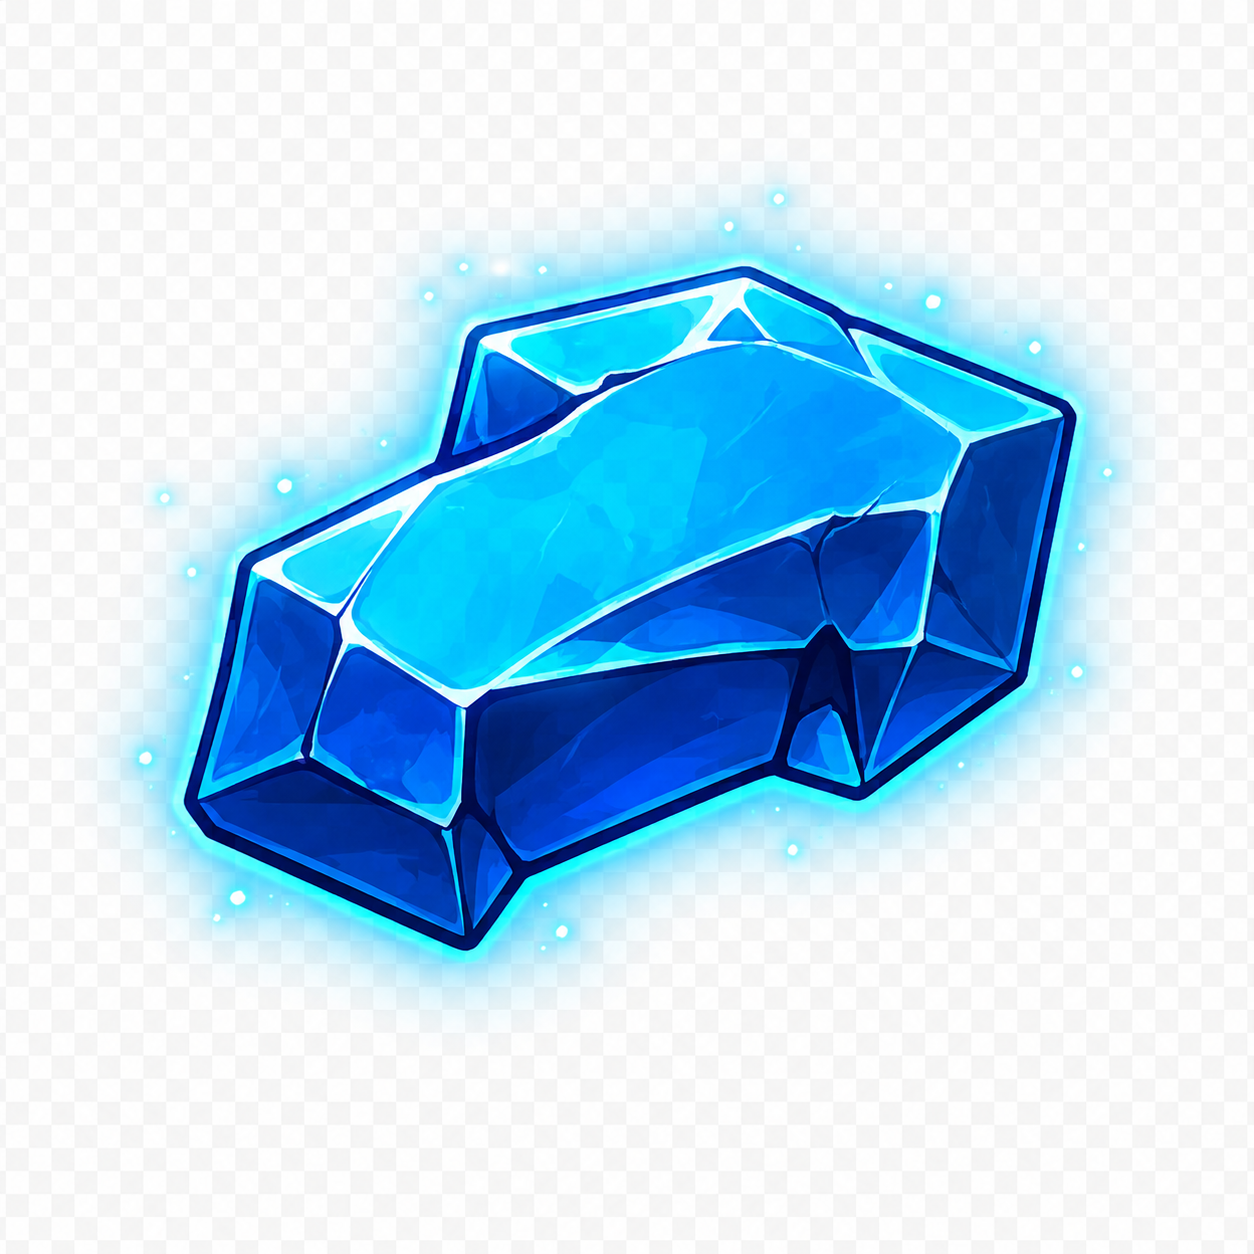
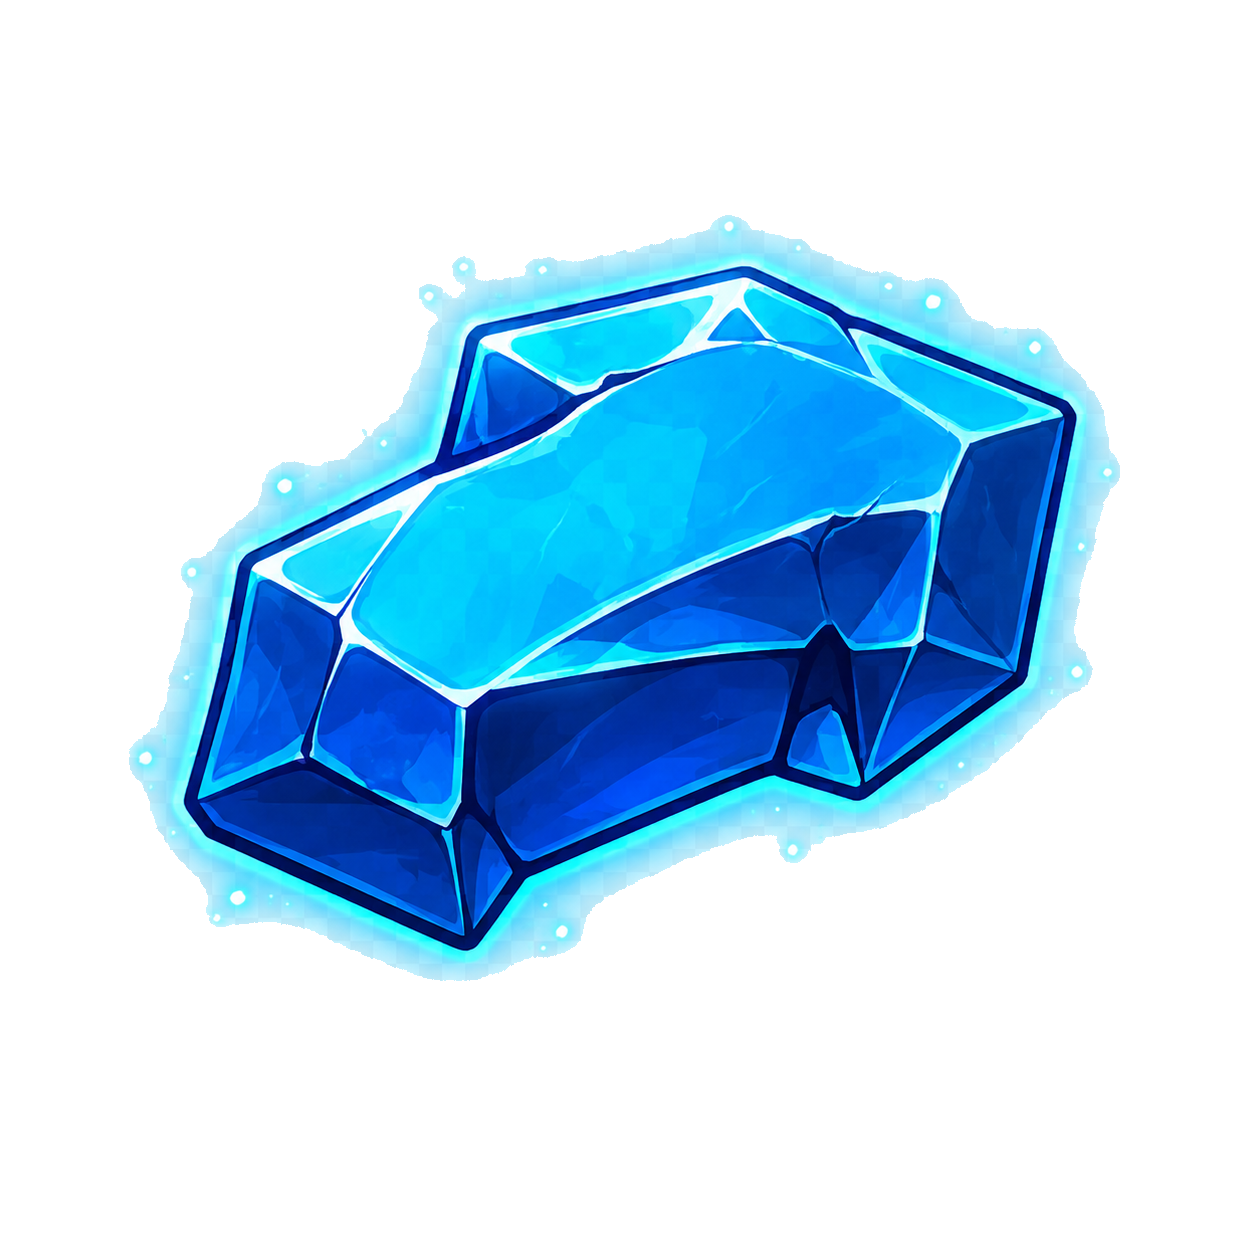
add

Changed region(s): [[0.0622, 0.1244, 0.933, 0.8086]]

diff --git a/assets/css/style.css b/assets/css/style.css
@@ -1412,21 +1412,19 @@ p { line-height: 1.5; }
 }
 
 .fragment-reward-box {
-  width: min(100%, 420px);
-  margin: 12px auto 6px !important;
-  padding: 24px 24px 22px !important;
-  min-height: 190px;
+  width: min(100%, 360px);
+  margin: 10px auto 6px !important;
+  padding: 12px 10px 6px !important;
+  min-height: auto;
   display: flex !important;
   flex-direction: column !important;
   align-items: center !important;
   justify-content: center !important;
   gap: 10px;
   background: transparent !important;
-  background-image: var(--parchment-popup-image) !important;
-  background-repeat: no-repeat !important;
-  background-position: center center !important;
-  background-size: 100% 100% !important;
-  box-shadow: 0 14px 32px rgba(0,0,0,.14) !important;
+  background-image: none !important;
+  box-shadow: none !important;
+  border: 0 !important;
 }
 
 .fragment-reward-box > div {
@@ -1434,7 +1432,7 @@ p { line-height: 1.5; }
   gap: 4px;
   justify-items: center;
   text-align: center;
-  max-width: 280px;
+  max-width: 300px;
 }
 
 .fragment-mini-image {
@@ -1450,7 +1448,7 @@ p { line-height: 1.5; }
 }
 
 .finale-box {
-  min-height: 165px;
+  min-height: auto;
 }
 
 @media (max-width: 520px) {
@@ -1467,12 +1465,92 @@ p { line-height: 1.5; }
   }
 
   .fragment-reward-box {
-    min-height: 175px;
-    padding: 22px 16px 18px !important;
+    min-height: auto;
+    padding: 10px 8px 6px !important;
   }
 
   .fragment-mini-image {
     width: 72px;
     height: 72px;
   }
+}
+
+
+/* ===== v8 Popup-Feinschliff ===== */
+.game-modal-card,
+.level-popup-card,
+.quiz-final-result,
+.quiz-intro,
+.quiz-result,
+.quiz-game {
+  text-align: center !important;
+}
+
+.game-modal-card h2,
+.game-modal-card p,
+.level-popup-card h2,
+.level-popup-card p,
+.quiz-final-result h2,
+.quiz-final-result p,
+.quiz-intro h2,
+.quiz-intro p,
+.quiz-result h2,
+.quiz-result p,
+.quiz-game h2,
+.quiz-game p,
+.fragment-reward-box,
+.fragment-reward-box strong,
+.fragment-reward-box p,
+.fragment-hint {
+  width: 100%;
+  text-align: center !important;
+  margin-left: auto !important;
+  margin-right: auto !important;
+}
+
+.game-modal-card .modal-actions,
+.level-popup-card .modal-actions,
+.quiz-result-actions,
+.compact-actions,
+#infoModalActions {
+  width: 100%;
+  display: flex;
+  justify-content: center !important;
+  align-items: center !important;
+  gap: 10px;
+  flex-wrap: wrap;
+}
+
+.game-modal-card .primary-button,
+.game-modal-card .ghost-button,
+.level-popup-card .primary-button,
+.level-popup-card .ghost-button,
+.quiz-result-actions .primary-button,
+.quiz-result-actions .ghost-button,
+.quiz-intro .primary-button,
+.quiz-intro .ghost-button,
+#infoModalActions .primary-button,
+#infoModalActions .ghost-button {
+  min-height: 42px;
+  padding: 0 18px;
+  font-size: .96rem;
+  max-width: min(100%, 250px);
+}
+
+.quiz-final-result {
+  display: flex;
+  flex-direction: column;
+  align-items: center;
+  justify-content: center;
+  gap: 8px;
+}
+
+.fragment-mini-image {
+  background: transparent !important;
+}
+
+.game-modal-card img,
+.level-popup-card img,
+.quiz-final-result img {
+  background: transparent !important;
 }

diff --git a/assets/js/level.js b/assets/js/level.js
@@ -626,19 +626,23 @@ function showQuizResult() {
     const allText = fragmentStatus.allCollected
       ? '<p class="fragment-hint">Alle fünf Kristalle sind gesammelt. Auf der Overworld kannst du jetzt das Zauberschloss zerbrechen.</p>'
       : '';
+    const rewardText = fragmentStatus.gained
+      ? `Du hast den <strong>${fragmentStatus.reward.name}</strong> gefunden.`
+      : `Du hast den <strong>${fragmentStatus.reward.name}</strong> bereits gesammelt.`;
     extraBlock = `
-      <div class="fragment-reward-box">
+      <div class="fragment-reward-box" aria-label="Kristall-Belohnung">
         <img class="fragment-mini-image" src="${fragmentStatus.reward.image}" alt="${fragmentStatus.reward.name}">
         <div>
           <strong>${fragmentStatus.gained ? 'Kristall gefunden!' : 'Kristall bereits gesichert!'}</strong>
-          <p>Du hast den <strong>${fragmentStatus.reward.name}</strong> erhalten. Gesammelt: ${fragmentStatus.total} / ${Object.keys(FRAGMENT_REWARDS).length}</p>
+          <p>${rewardText}</p>
+          <p>Gesammelt: ${fragmentStatus.total} / ${Object.keys(FRAGMENT_REWARDS).length}</p>
         </div>
       </div>
       ${allText}
     `;
   } else if (won && activeQuiz.quizId === 'zauberschloss') {
     extraBlock = `
-      <div class="fragment-reward-box finale-box">
+      <div class="fragment-reward-box finale-box" aria-label="Schloss befreit">
         <div>
           <strong>Das Zauberschloss ist befreit!</strong>
           <p>Du hast den Zauberer besiegt und die Sinnesmagie zurückerobert.</p>
